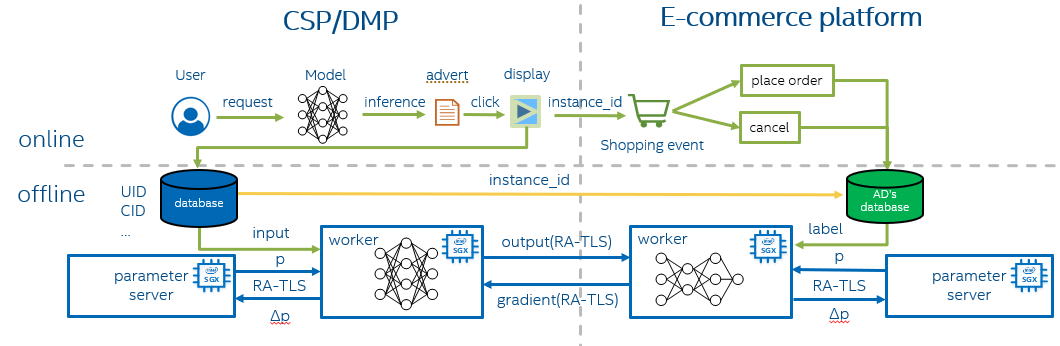
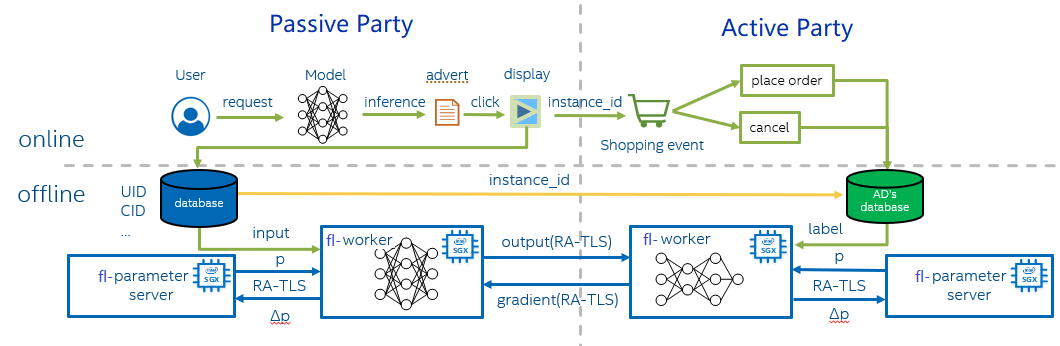
Update Fedlearner README.md

diff --git a/sgx/README.md b/sgx/README.md
@@ -4,14 +4,14 @@
 
 With the increasing concerns on data security and user privacy in machine learning, federated learning becomes a promising solution to privacy and security challenges.  Federated Learning can be classified into Vertical Federated Learning, Horizontal Federated Learning, Federated Transfer Learning (FTL) according to  how sensitive data are distributed among participating parties. 
 
-Federated Learning usually adopts three major technologies in protecting privacy: Differential Privacy (DP), Homomorphic Encryption (HE) and Private Set Intersection (PSI). This solution presents an innovative way to presents an secure enhanced Vertical Federated Learning  by integrating Intel SGX technology.
+Federated Learning usually adopts three major technologies in protecting privacy: Differential Privacy (DP), Homomorphic Encryption (HE) and  Muti-Party Computation (MPC). The privacy protection technologies that are adopted  in deep neural networks are DP and MPC and TEE (Trusted Executing Environment).
+This solution presents an innovative way to presents an secure enhanced Vertical Federated Learning  by integrating Intel SGX technology.
 
-Vertical Federated Learning assumes that the data are partitioned by different features (including labels). A typical scenario of Vertical Federated Learning is including two parts: online reference and offline training. When an online media platform A displays ads of an ecommerce company B to its users and charges B for each conversion (e.g., user clicking the ad and buying the product). 
+Vertical Federated Learning assumes that the data are partitioned by different features (including labels). A typical scenario of Vertical Federated Learning is including two parts: online reference and offline training. When an online media platform A displays ads of an e-commerce company B to its users and charges B for each conversion (e.g., user clicking the ad and buying the product).
 
 ![vertical FL](./imgs/vfl.png)
 
-During offline training, e-commerce advertisers and the Data Management Platform (DMP), both parties use the example_id recorded online to align the data and label, and then read the data in the order of alignment. The model is divided into two parts. The DMP inputs the data into the first half, obtains the intermediate result (embedding) and then sends it to the e-commerce
-advertisers. E-commerce advertisers calculate the second half of the model, then use the label they record to calculate the loss and gradient, and then pass the gradient back to the DMP. Finally, the e-commerce advertisers and DMP update their models.
+During offline training, active party and passive party , both parties use the example_id recorded online to align the data and label, and then read the data in the order of alignment. The model is divided into two parts. The passive party inputs the data into the first half, obtains the intermediate result (embedding) and then sends it to active party. Active party calculates the second half of the model, then use the label they record to calculate the loss and gradient, and then pass the gradient back to the passive party. Finally, the active party and passive party update their models.
 
 ## Introduction
 
@@ -33,7 +33,7 @@ In this solution, it focuses on online training part and the main involved modul
 
 ![Vertical FL with SGX](./imgs/vfl_with_sgx.png)
 
-Usually, there are two roles during model training - parameter server and workers. Each worker computes the gradient of the loss on its portion of the data, and then a parameter server sums each worker’s gradient to yield the full mini-batch gradient. After using this gradient to update the model parameters, the parameter server must send back the updated weights to the worker.  Workers from DMP and e-commerce advertisers will transfer labels and gradients via gRPC.
+Usually, there are two roles during model training - parameter server and workers. Each worker computes the gradient of the loss on its portion of the data, and then a parameter server sums each worker’s gradient to yield the full mini-batch gradient. After using this gradient to update the model parameters, the parameter server must send back the updated weights to the worker.  Workers from active party and passive party will transfer labels and gradients via gRPC.
 
 **Runtime security with Intel SGX**
 
